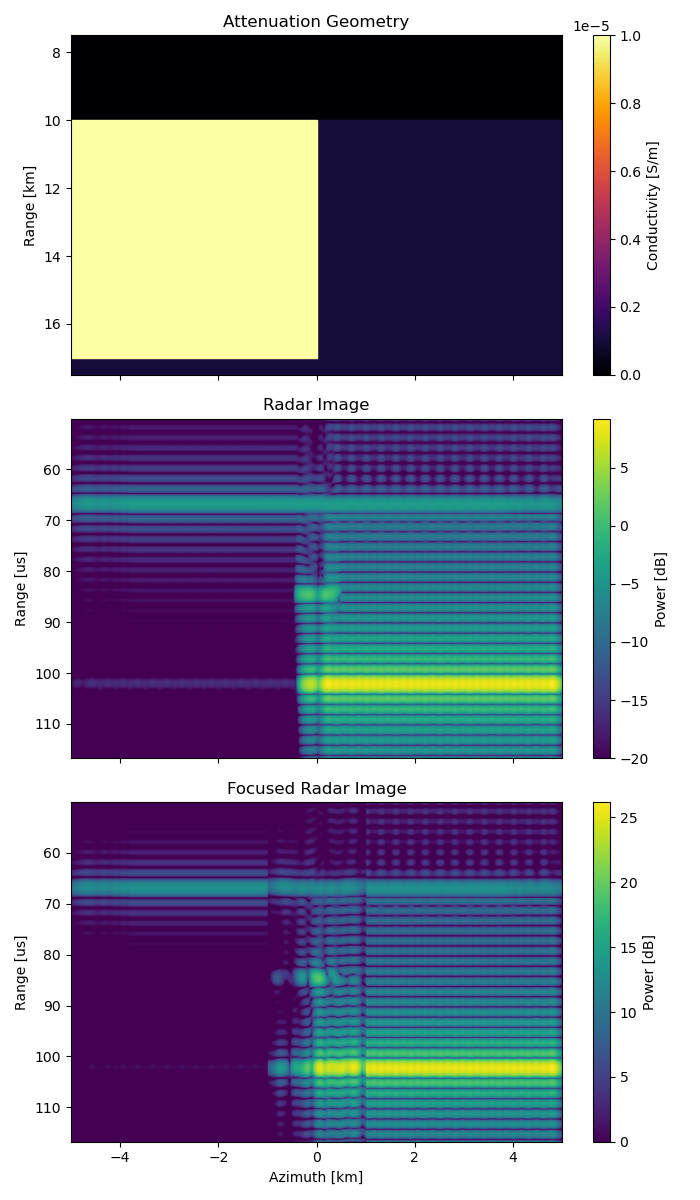
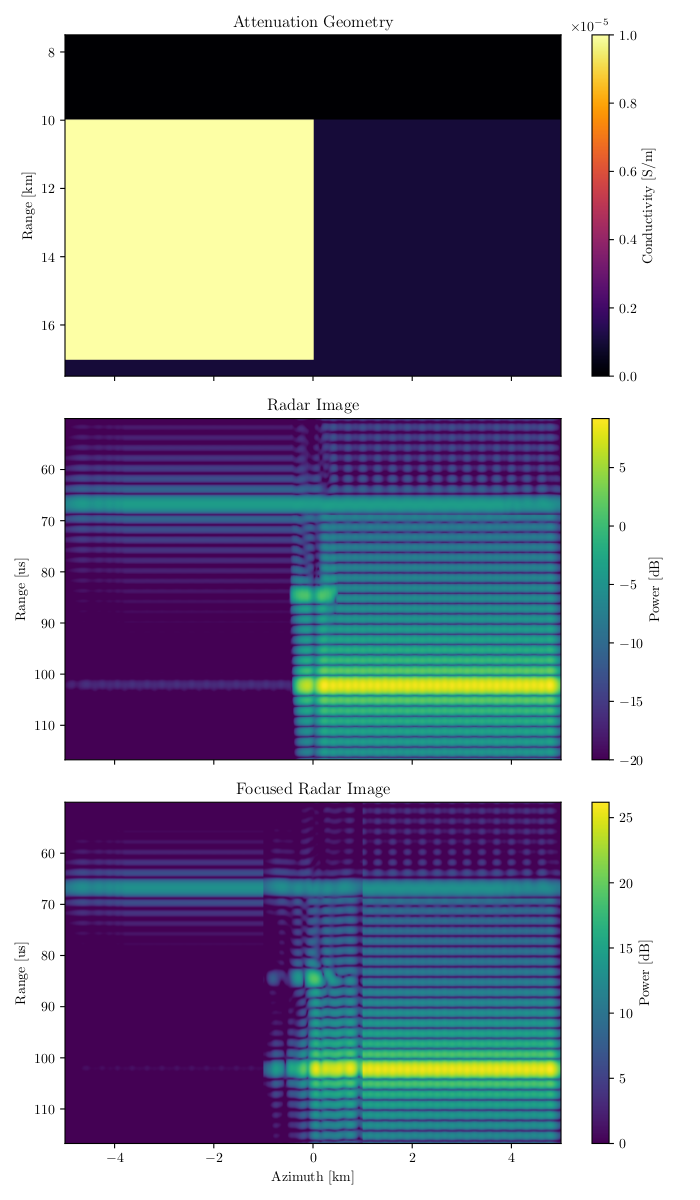
Cleaned attenuation example

diff --git a/examples/attenuation/output.py b/examples/attenuation/output.py
@@ -9,199 +9,27 @@ import pickle
 sys.path.append("../../archive/src")
 from focus import est_slant_range
 
+sys.path.append("../../src/PYTHON")
+import output_handling as oh
+import simple_focusing as sf
+import rdr_plots       as rp
+
 paramss = ("halfspace", "window")
 directs = ("rdr_halfspace", "rdr_window")
 
 for param, direct in zip(paramss, directs):
 
-    # load parameters
-    with open(f"params/{param}.pkl", "rb") as h:
-        params = pickle.load(h)
+    params = oh.load_params(f"params/{param}.pkl", f"params/targets.txt")
 
+    # we don't want to focus at the first target, we want to focus at a
+    # specific location so we override
     params["tx"] = 0
     params["ty"] = 0
     params["tz"] = -1500
 
-    # load radargram files
-    files = sorted(glob.glob(f"{direct}/s*.txt"))
-    rdr = []
-
-    for i, f in enumerate(files):
-        if i >= params["ns"]:
-            break
-        arr = np.loadtxt(f).T
-        rdr.append(arr[0] + 1j * arr[1])
-
-    rdr = np.array(rdr).T
-
-    # source locations
-    sx = params["sx0"] + params["sdx"] * np.arange(params["ns"])
-    sy = params["sy"]
-    sz = params["sz"]
-
-    # propagation speeds
-    c0 = 299_792_458
-    c_med = c0 / np.sqrt(params["eps_2"])
-
-    # window and sample geometry
-    rx_win = params["rx_window_m"]
-    rx_off = params["rx_window_offset_m"]
-    sample_rate = params["rx_sample_rate"]
-
-    rb = int((rx_win / c0) / (1 / sample_rate))
-    dm = c0 / sample_rate
-
-    # slant range and matched filter terms
-    sl = est_slant_range(sx, sz, params["tx"], params["tz"], c0, c_med)
-    sl_us = 2e6 * sl / c0  # microseconds
-    sl_rb = ((sl - rx_off) // dm).astype(int)
-
-    k = (2 * np.pi) / (c0 / params["frequency"])
-    mf = np.exp(-2j * k * sl)
-
-    def lin_to_db(x):
-        return 10 * np.log10(x)
-
+    rdr = oh.compile_rdrgrm(direct, params)
     Nr, Na = rdr.shape
 
-    # range cell migration correction
-    shifts = sl_rb - sl_rb.min()
-    rdr_rcmc = np.column_stack([
-        np.roll(rdr[:, i], -int(shifts[i]))
-        for i in range(Na)
-    ])
+    focused = sf.focus_window(rdr, params, win_center=Na//2, win_width=Na//5, scale=50)
 
-    # -------------------------------
-    # Selective azimuth focusing window
-    # -------------------------------
-
-    # choose window center and width (in azimuth samples)
-    # example: 20% wide window centered in the middle
-    az_center = Na // 2
-    az_width = Na // 5    # adjust as needed
-
-    az_start = max(0, az_center - az_width // 2)
-    az_end   = min(Na, az_center + az_width // 2)
-
-    # extract windowed azimuth data
-    rdr_win = rdr_rcmc[:, az_start:az_end]
-    Na_win = rdr_win.shape[1]
-
-    # -------------------------------
-    # Apply Range–Doppler focusing ONLY to the window
-    # -------------------------------
-
-    fft_len = 2 * Na_win
-    pad = fft_len - Na_win
-
-    # pad data and matched filter to FFT length
-    rdr_pad = np.pad(rdr_win, ((0, 0), (0, pad)))
-    mf_pad = np.pad(mf[az_start:az_end], (0, pad))
-
-    az_fft = np.fft.fft(rdr_pad, axis=1, n=fft_len)
-    H = np.fft.fft(mf_pad, fft_len)
-
-    focused_freq = az_fft * H[np.newaxis, :]
-    focused_win = np.fft.ifft(focused_freq, axis=1)
-
-    # crop back to window size
-    start = pad // 2
-    end = start + Na_win
-    focused_win = focused_win[:, start:end]
-
-    # -------------------------------
-    # Combine focused window with unfocused remainder
-    # -------------------------------
-
-    focused = 50*rdr.copy()
-    focused[:, az_start:az_end] = focused_win
-
-    # final plot
-    range_extent = [
-        -5, 5,
-        2 * (rx_off + rx_win) / 299.792458,
-        2 * rx_off / 299.792458
-    ]
-
-    # -----------------------------------------
-    # GENERATE PRODUCTION PLOTS 
-    # -----------------------------------------
-
-    conductivity = 1e-5
-    if param == "halfspace":
-        ex1_xmins = [-5e3];   ex1_xmaxs = [0]
-        ex1_ymins = [-2.5e3]; ex1_ymaxs = [2.5e3]
-        ex1_zmins = [-7e3];   ex1_zmaxs = [0]
-    elif param == "window":
-        ex1_xmins = [-5e3, 1e3];   ex1_xmaxs = [-1e3, 5e3]
-        ex1_ymins = [-2.5e3, -2.5e3]; ex1_ymaxs = [2.5e3, 2.5e3]
-        ex1_zmins = [-0.5e3, -0.5e3];   ex1_zmaxs = [0, 0]
-
-    cmap = plt.get_cmap('inferno')
-    norm = plt.Normalize(vmin=params['sig_1'], vmax=conductivity)
-
-    fig, ax = plt.subplots(3, figsize=((7, 12)), sharex=True)
-
-    # set xlim and ylim in km
-    ax[0].set_ylim((params['rx_window_offset_m']+params['rx_window_m'])/1e3, params['rx_window_offset_m']/1e3)
-    ax[0].set_xlim(params['sx0']/1e3, (params['sx0']+params['sdx']*params['ns'])/1e3)
-
-    # plot atmosphere conductivity
-    rect_x = params['sx0'] / 1e3
-    rect_y = params['sz'] / 1e3
-    rect_w = (params['sdx'] * params['ns']) / 1e3
-    rect_h = -1*params['rx_window_m'] / 1e3
-    ax[0].add_patch(Rectangle((rect_x, rect_y), rect_w, rect_h,
-                        color=cmap(norm(params['sig_1'])), zorder=0))
-
-    # plot subsurface conductivity
-    rect_x = params['sx0'] / 1e3
-    rect_y = params['sz'] / 1e3
-    rect_w = (params['sdx'] * params['ns']) / 1e3
-    rect_h = params['rx_window_m'] / 1e3
-    ax[0].add_patch(Rectangle((rect_x, rect_y), rect_w, rect_h,
-                        color=cmap(norm(params['sig_2'])), zorder=0))
-
-    # plot conductivity rectangles
-    for xmin, xmax, ymin, ymax, zmin, zmax in zip(ex1_xmins, ex1_xmaxs, ex1_ymins, ex1_ymaxs, ex1_zmins, ex1_zmaxs):
-        rect_x = xmin / 1e3
-        rect_y = (params['sz'] + zmax) / 1e3
-        rect_w = (xmax - xmin) / 1e3
-        rect_h = (zmax - zmin) / 1e3
-        ax[0].add_patch(Rectangle((rect_x, rect_y), rect_w, rect_h,
-                            color=cmap(norm(conductivity)), zorder=1))
-
-    # add conductivity plot labels
-    ax[0].set_title("Attenuation Geometry")
-    ax[0].set_ylabel("Range [km]")
-
-    # add radargram plot labels
-    im1 = ax[1].imshow(lin_to_db(np.abs(rdr)), vmin=-20, extent=range_extent, aspect='auto')
-    ax[1].set_title("Radar Image")
-    ax[1].set_ylabel("Range [us]")
-
-    im2 = ax[2].imshow(lin_to_db(np.abs(focused)), vmin=0, extent=range_extent, aspect='auto')
-    ax[2].set_title("Focused Radar Image")
-    ax[2].set_xlabel("Azimuth [km]")
-    ax[2].set_ylabel("Range [us]")
-
-
-    # Colorbar for conductivity (subplot 0)
-    cbar0 = fig.colorbar(
-        plt.cm.ScalarMappable(norm=norm, cmap=cmap),
-        ax=ax[0],
-        orientation='vertical',
-        label='Conductivity [S/m]'
-    )
-
-    # Colorbar for radargram (subplot 1)
-    cbar1 = fig.colorbar(im1, ax=ax[1], orientation='vertical')
-    cbar1.set_label("Power [dB]")
-
-    # Colorbar for focused radargram (subplot 2)
-    cbar2 = fig.colorbar(im2, ax=ax[2], orientation='vertical')
-    cbar2.set_label("Power [dB]")
-
-    plt.tight_layout()
-    plt.savefig(f"plots/{param}.png")
-    plt.close()
+    rp.plot_rdr_attenuation_prof(rdr, focused, f"params/{param}.txt", params, savefig=f"plots/{param}.png")

diff --git a/src/PYTHON/rdr_plots.py b/src/PYTHON/rdr_plots.py
@@ -8,6 +8,7 @@ from mpl_toolkits.axes_grid1.inset_locator import inset_axes
 import numpy as np
 
 import unit_convs as uc
+import output_handling as oh
 
 # matplotlib configuration for LaTeX
 os.environ["PATH"] += os.pathsep + '/usr/share/texlive/texmf-dist/tex/xelatex'
@@ -201,4 +202,89 @@ def IGARSS2026_rdrgrm_focused_profile(rdrgrm, focused, terrain, par, az_s1, az_s
 
     plt.savefig(f"{filename}.png", dpi=300, bbox_inches="tight")
     plt.savefig(f"{filename}.pgf", dpi=300, bbox_inches="tight")
+    plt.close()
+
+
+def plot_rdr_attenuation_prof(rdr, focused, attenuation_file, params, savefig):
+
+    range_extent = [
+        -5, 5,
+        2 * (params["rx_window_offset_m"] + params["rx_window_m"]) / 299.792458,
+        2 * params["rx_window_offset_m"] / 299.792458
+    ]
+
+    conductivity, ex1_xmins, ex1_xmaxs, ex1_ymins, ex1_ymaxs, ex1_zmins, ex1_zmaxs = oh.load_attenuation_geom(attenuation_file)
+
+    # debug (print attenuation boundaries)
+    print("Attenuation boundaries:")
+    for c, xmin, xmax, ymin, ymax, zmin, zmax in zip(conductivity, ex1_xmins, ex1_xmaxs, ex1_ymins, ex1_ymaxs, ex1_zmins, ex1_zmaxs):
+        print(f"  Conductivity: {c}, X: [{xmin}, {xmax}], Y: [{ymin}, {ymax}], Z: [{zmin}, {zmax}]")
+
+    cmap = plt.get_cmap('inferno')
+    norm = plt.Normalize(vmin=params['sig_1'], vmax=np.max(conductivity))
+
+    fig, ax = plt.subplots(3, figsize=((7, 12)), sharex=True)
+
+    # set xlim and ylim in km
+    ax[0].set_ylim((params['rx_window_offset_m']+params['rx_window_m'])/1e3, params['rx_window_offset_m']/1e3)
+    ax[0].set_xlim(params['sx0']/1e3, (params['sx0']+params['sdx']*params['ns'])/1e3)
+
+    # plot atmosphere conductivity
+    rect_x = params['sx0'] / 1e3
+    rect_y = params['sz'] / 1e3
+    rect_w = (params['sdx'] * params['ns']) / 1e3
+    rect_h = -1*params['rx_window_m'] / 1e3
+    ax[0].add_patch(Rectangle((rect_x, rect_y), rect_w, rect_h,
+                        color=cmap(norm(params['sig_1'])), zorder=0))
+
+    # plot subsurface conductivity
+    rect_x = params['sx0'] / 1e3
+    rect_y = params['sz'] / 1e3
+    rect_w = (params['sdx'] * params['ns']) / 1e3
+    rect_h = params['rx_window_m'] / 1e3
+    ax[0].add_patch(Rectangle((rect_x, rect_y), rect_w, rect_h,
+                        color=cmap(norm(params['sig_2'])), zorder=0))
+
+    # plot conductivity rectangles
+    for c, xmin, xmax, ymin, ymax, zmin, zmax in zip(conductivity, ex1_xmins, ex1_xmaxs, ex1_ymins, ex1_ymaxs, ex1_zmins, ex1_zmaxs):
+        rect_x = xmin / 1e3
+        rect_y = (params['sz'] + zmax) / 1e3
+        rect_w = (xmax - xmin) / 1e3
+        rect_h = (zmax - zmin) / 1e3
+        ax[0].add_patch(Rectangle((rect_x, rect_y), rect_w, rect_h,
+                            color=cmap(norm(c)), zorder=1))
+
+    # add conductivity plot labels
+    ax[0].set_title("Attenuation Geometry")
+    ax[0].set_ylabel("Range [km]")
+
+    # add radargram plot labels
+    im1 = ax[1].imshow(uc.lin_to_db(np.abs(rdr)), vmin=-20, extent=range_extent, aspect='auto')
+    ax[1].set_title("Radar Image")
+    ax[1].set_ylabel("Range [us]")
+
+    im2 = ax[2].imshow(uc.lin_to_db(np.abs(focused)), vmin=0, extent=range_extent, aspect='auto')
+    ax[2].set_title("Focused Radar Image")
+    ax[2].set_xlabel("Azimuth [km]")
+    ax[2].set_ylabel("Range [us]")
+
+
+    # Colorbar for conductivity (subplot 0)
+    cbar0 = fig.colorbar(
+        plt.cm.ScalarMappable(norm=norm, cmap=cmap),
+        ax=ax[0],
+        orientation='vertical',
+        label='Conductivity [S/m]'
+    )
+
+    # Colorbar for radargram (subplot 1)
+    cbar1 = fig.colorbar(im1, ax=ax[1], orientation='vertical')
+    cbar1.set_label("Power [dB]")
+
+    # Colorbar for focused radargram (subplot 2)
+    cbar2 = fig.colorbar(im2, ax=ax[2], orientation='vertical')
+    cbar2.set_label("Power [dB]")
+
+    plt.tight_layout()
+    plt.savefig(savefig)
     plt.close()

diff --git a/src/PYTHON/simple_focusing.py b/src/PYTHON/simple_focusing.py
@@ -182,3 +182,63 @@ def focus_middle_only(rdrgrm, par, buffer, c1=299792458, sx_linspace=True):
     focused = focused[:, start:end]
 
     return focused
+
+
+def focus_window(rdrgrm, par, win_center, win_width, c1=299792458, sx_linspace=True, scale=50):
+
+    if sx_linspace:
+        sx = par['sx0'] + par['sdx'] * np.arange(par['ns'])
+    else:
+        raise NotImplementedError("Irregular source spacing is not yet supported.")
+
+    Nr, Na = rdrgrm.shape
+
+    # speed of light in subsurface
+    c2 = uc.c2(par, c1=c1)
+
+    # get the slant range
+    sltrng    = est_slant_range(sx, par['sz'], par['tx'], par['tz'], c1, c2)
+    sltrng_rb = uc.slantrange_to_rangebin(sltrng, par, c1=c1)
+
+    # turn into matched filter
+    match_filter = uc.match_filter(sltrng, par, c1=c1)
+
+    # range cell migration correction
+    shift_amounts = sltrng_rb - np.min(sltrng_rb)
+    rdr_rcmc = np.array([
+        np.roll(rdrgrm[:, i], -int(shift_amounts[i]))
+        for i in range(rdrgrm.shape[1])
+    ]).T
+
+    # turn window into azimuth start and end
+    az_start = max(0, win_center - win_width // 2)
+    az_end   = min(Na, win_center + win_width // 2)
+
+    # extract windowed azimuth data
+    rdr_win = rdr_rcmc[:, az_start:az_end]
+    Na_win = rdr_win.shape[1]
+
+    # do range doppler focusing ONLY to the window
+    fft_len = 2 * Na_win
+    pad = fft_len - Na_win
+
+    # pad data and matched filter to FFT length
+    rdr_pad = np.pad(rdr_win, ((0, 0), (0, pad)))
+    mf_pad = np.pad(match_filter[az_start:az_end], (0, pad))
+
+    az_fft = np.fft.fft(rdr_pad, axis=1, n=fft_len)
+    H = np.fft.fft(mf_pad, fft_len)
+
+    focused_freq = az_fft * H[np.newaxis, :]
+    focused_win = np.fft.ifft(focused_freq, axis=1)
+
+    # crop back to window size
+    start = pad // 2
+    end = start + Na_win
+    focused_win = focused_win[:, start:end]
+
+    # combine with the unfocused portion
+    focused = scale*rdrgrm.copy()
+    focused[:, az_start:az_end] = focused_win
+
+    return focused

diff --git a/src/PYTHON/output_handling.py b/src/PYTHON/output_handling.py
@@ -35,3 +35,26 @@ def load_params(param_path, target_path):
     params['tz'] = targets[2]
 
     return params
+
+def load_attenuation_geom(filepath):
+
+    # example file contents:
+    # 1e-05, -5000.0, -2500.0, -500.0, -1000.0, 2500.0, 0
+    # 1e-05, 1000.0, -2500.0, -500.0, 5000.0, 2500.0, 0
+    # cond, xmin, xmax, ymin, ymax, zmin, zmax
+
+    xmins, xmaxs, ymins, ymaxs, zmins, zmaxs = [], [], [], [], [], []
+    conductivities = []
+
+    with open(filepath, 'r') as f:
+        for line in f:
+            vals = line.strip().split(',')
+            conductivities.append(float(vals[0]))
+            xmins.append(float(vals[1]))
+            ymins.append(float(vals[2]))
+            zmins.append(float(vals[3]))
+            xmaxs.append(float(vals[4]))
+            ymaxs.append(float(vals[5]))
+            zmaxs.append(float(vals[6]))
+
+    return (conductivities, xmins, xmaxs, ymins, ymaxs, zmins, zmaxs)
